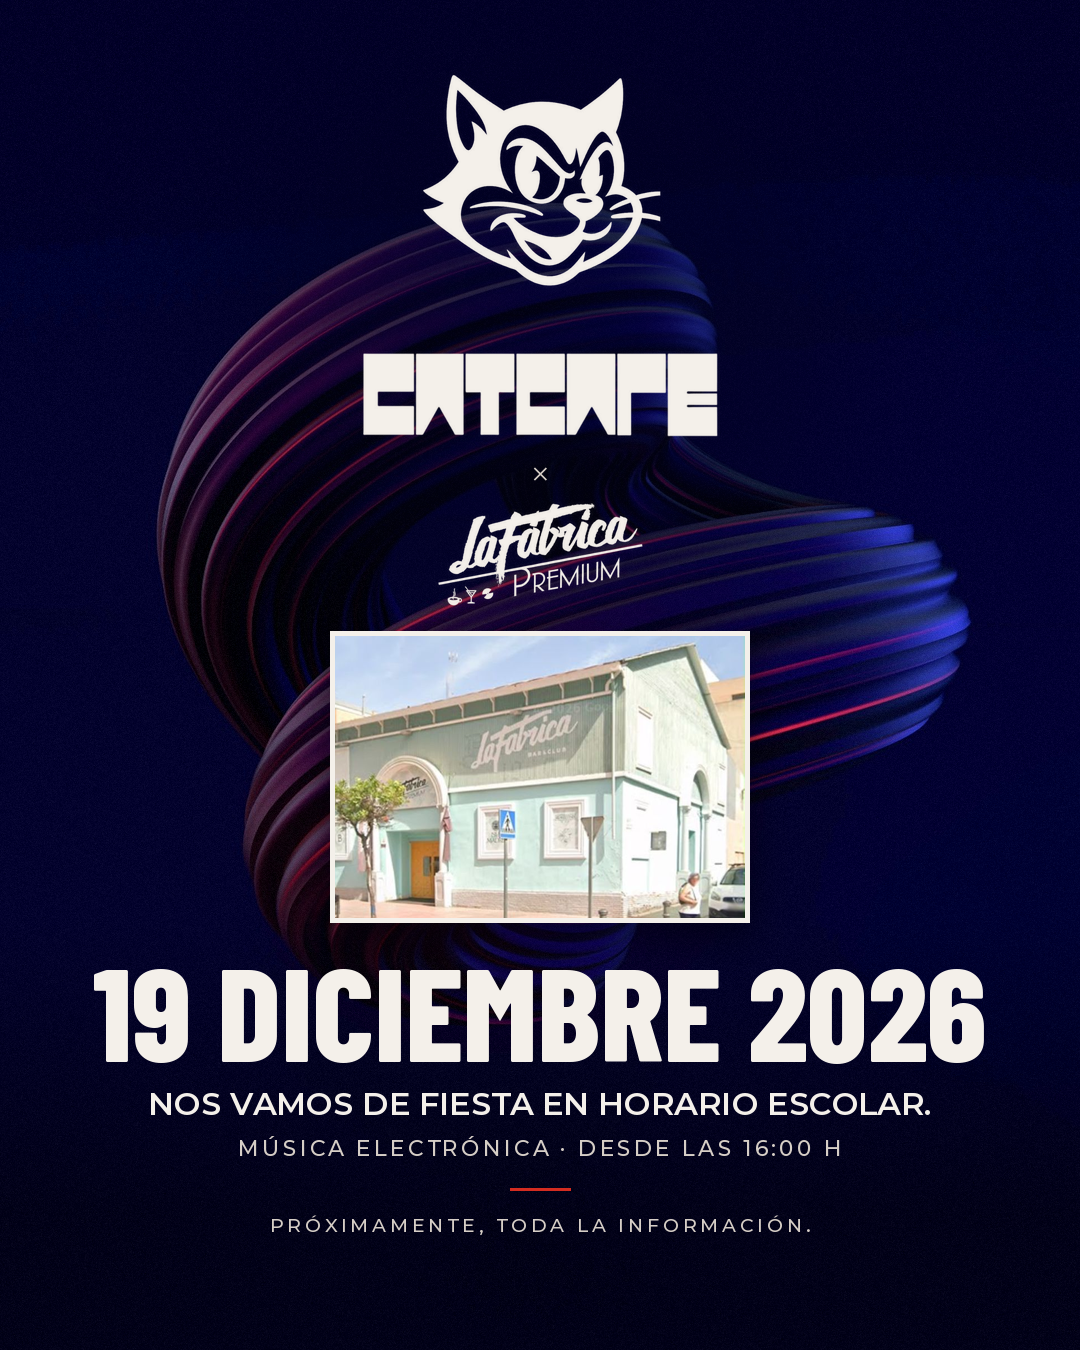
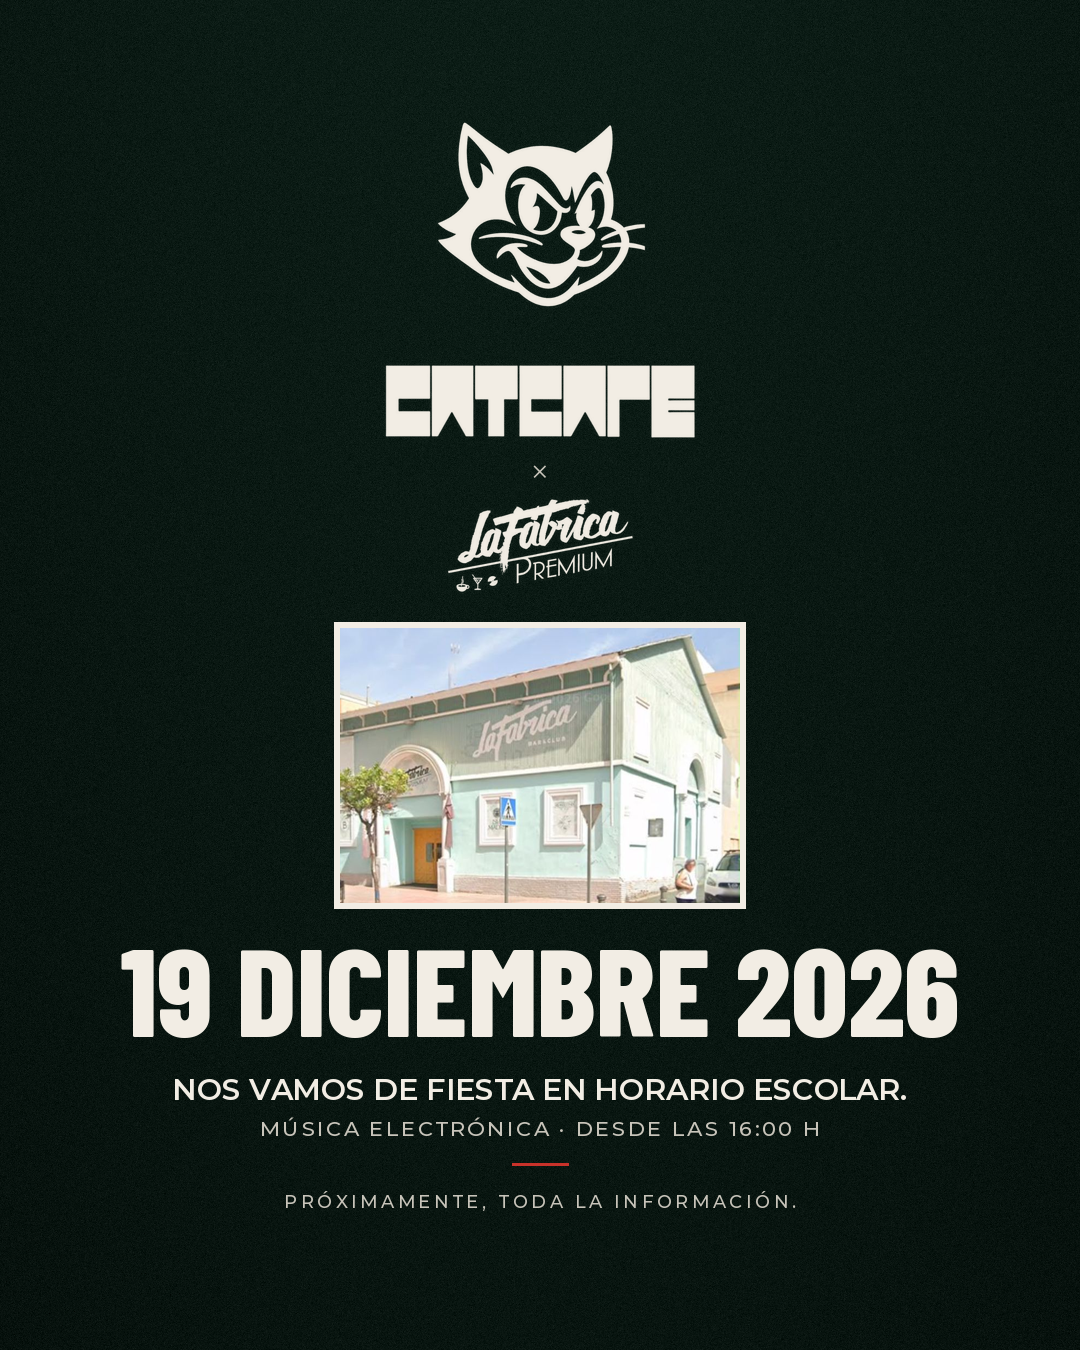
CATCAPE poster v3: minimalist editorial, 120 px margins, centred
Deep evergreen ground with grain (subtle Christmas), red accent rule;
all elements centre-aligned inside x 120-960 / y 120-1230; PNG export.

Claude-Session: https://claude.ai/code/session_01VrYBgsBuhz62VorWctiMcb

diff --git a/catcape-2026-12-19/tools/poster.py b/catcape-2026-12-19/tools/poster.py
@@ -2,7 +2,7 @@
 
 Logos are the supplied white-on-black files: only the black ground is made transparent
 (alpha = brightness), scaled uniformly, never redrawn or recoloured.
-All essential content stays inside a centred safe area (x 80–1000, y 70–1250).
+Every element is centre-aligned inside a 120 px safe margin (x 120–960, y 120–1230).
 
 env: SRC (assets/source), FONT_DIR (barlow-condensed-latin-800, montserrat-latin-300/500/600 woff),
      OUT (png path)
@@ -15,9 +15,10 @@ from PIL import Image, ImageDraw, ImageFilter, ImageFont
 W, H = 1080, 1350
 SRC, FONT_DIR = os.environ["SRC"], os.environ["FONT_DIR"]
 
-WHITE = (244, 240, 234)
-SOFT = (214, 206, 198)
-RED = (212, 44, 32)
+WHITE = (242, 237, 228)
+SOFT = (200, 196, 186)
+RED = (200, 50, 42)
+GROUND = (11, 26, 20)  # deep evergreen, almost black
 
 # exact copy — do not modify
 ORGS = "CATCAPE × LA FÁBRICA PREMIUM"  # carried by the two logos and the ×
@@ -37,16 +38,11 @@ def font(face, size):
 
 
 def background():
-    """The supplied 3D render, cropped to 4:5 around the form; the type zone is deepened."""
-    im = Image.open(os.path.join(SRC, "background_3d.jpg")).convert("RGB")
-    cw = im.width
-    ch = round(cw * H / W)
-    top = 190
-    im = im.crop((0, top, cw, top + ch)).resize((W, H), Image.LANCZOS)
-    a = np.asarray(im, np.float32)
+    """Flat deep-evergreen ground with a faint vertical falloff and film grain."""
     y = np.linspace(0, 1, H, dtype=np.float32)[:, None, None]
-    a *= 1 - 0.45 * np.clip((y - 0.68) / 0.22, 0, 1)  # quieter behind the date block
-    a += np.random.default_rng(4).normal(0, 3.0, (H, W, 1)).astype(np.float32)  # fine grain
+    xx = np.linspace(-1, 1, W, dtype=np.float32)[None, :, None]
+    a = np.array(GROUND, np.float32)[None, None, :] * (1.12 - 0.3 * y) * (1 - 0.18 * xx ** 2)
+    a = a + np.random.default_rng(4).normal(0, 3.4, (H, W, 1)).astype(np.float32)
     return Image.fromarray(np.clip(a, 0, 255).astype(np.uint8)).convert("RGBA")
 
 
@@ -89,40 +85,29 @@ def fit(s, face, max_w, start):
 
 def main():
     canvas = background()
-
-    # soft dark halo behind the logo block so the white marks sit cleanly on the render
-    halo = Image.new("L", (W, H), 0)
-    ImageDraw.Draw(halo).ellipse((250, 40, 830, 640), fill=120)
-    halo = halo.filter(ImageFilter.GaussianBlur(80))
-    canvas = Image.composite(Image.new("RGBA", (W, H), (2, 2, 30, 255)), canvas, halo)
-
-    cat = logo("catcape_logo_source.jpg", (74, 500, 822, 1262), 360)
-    canvas.alpha_composite(cat, ((W - cat.width) // 2, 72))
     d = ImageDraw.Draw(canvas)
-    text(d, "×", "light", 40, 474, fill=SOFT)
-    fab = logo("lafabrica_logo_source.jpg", (232, 717, 668, 942), 210)
-    canvas.alpha_composite(fab, ((W - fab.width) // 2, 500))
 
-    # venue photo as a framed print with a soft shadow
-    ph = venue_photo(410)
-    px, py = (W - ph.width) // 2, 636
-    shadow = Image.new("L", (W, H), 0)
-    ImageDraw.Draw(shadow).rectangle((px - 6, py + 10, px + ph.width + 6, py + ph.height + 18), fill=170)
-    shadow = shadow.filter(ImageFilter.GaussianBlur(18))
-    canvas = Image.composite(Image.new("RGBA", (W, H), (0, 0, 12, 255)), canvas, shadow)
+    cat = logo("catcape_logo_source.jpg", (74, 500, 822, 1262), 314)
+    canvas.alpha_composite(cat, ((W - cat.width) // 2, 120))
+    text(d, "×", "light", 38, 472, fill=SOFT)
+    fab = logo("lafabrica_logo_source.jpg", (232, 717, 668, 942), 190)
+    canvas.alpha_composite(fab, ((W - fab.width) // 2, 496))
+
+    # venue photo as a framed print
+    ph = venue_photo(400)
+    px, py = (W - ph.width) // 2, 628
     d = ImageDraw.Draw(canvas)
-    d.rectangle((px - 5, py - 5, px + ph.width + 4, py + ph.height + 4), fill=WHITE)
+    d.rectangle((px - 6, py - 6, px + ph.width + 5, py + ph.height + 5), fill=WHITE)
     canvas.paste(ph, (px, py))
 
     d = ImageDraw.Draw(canvas)
-    ds = fit(DATE, "cond", 900, 170)
-    text(d, DATE, "cond", ds, 1016)
-    text(d, TAGLINE, "semi", fit(TAGLINE, "semi", 860, 32), 1104)
-    text(d, INFO, "medium", 22, 1148, fill=SOFT, tracking=0.14)
-    d.rectangle((W / 2 - 30, 1188, W / 2 + 30, 1190), fill=RED)
-    text(d, SOON, "medium", 19, 1226, fill=SOFT, tracking=0.2)
+    text(d, DATE, "cond", fit(DATE, "cond", 840, 170), 994)
+    text(d, TAGLINE, "semi", fit(TAGLINE, "semi", 840, 30), 1090)
+    text(d, INFO, "medium", fit(INFO, "medium", 840, 21), 1129, fill=SOFT, tracking=0.12)
+    d.rectangle((W / 2 - 28, 1163, W / 2 + 28, 1165), fill=RED)
+    text(d, SOON, "medium", 18, 1202, fill=SOFT, tracking=0.2)
 
-    canvas.convert("RGB").save(os.environ["OUT"], quality=95)
+    canvas.convert("RGB").save(os.environ["OUT"])
 
 
 if __name__ == "__main__":
